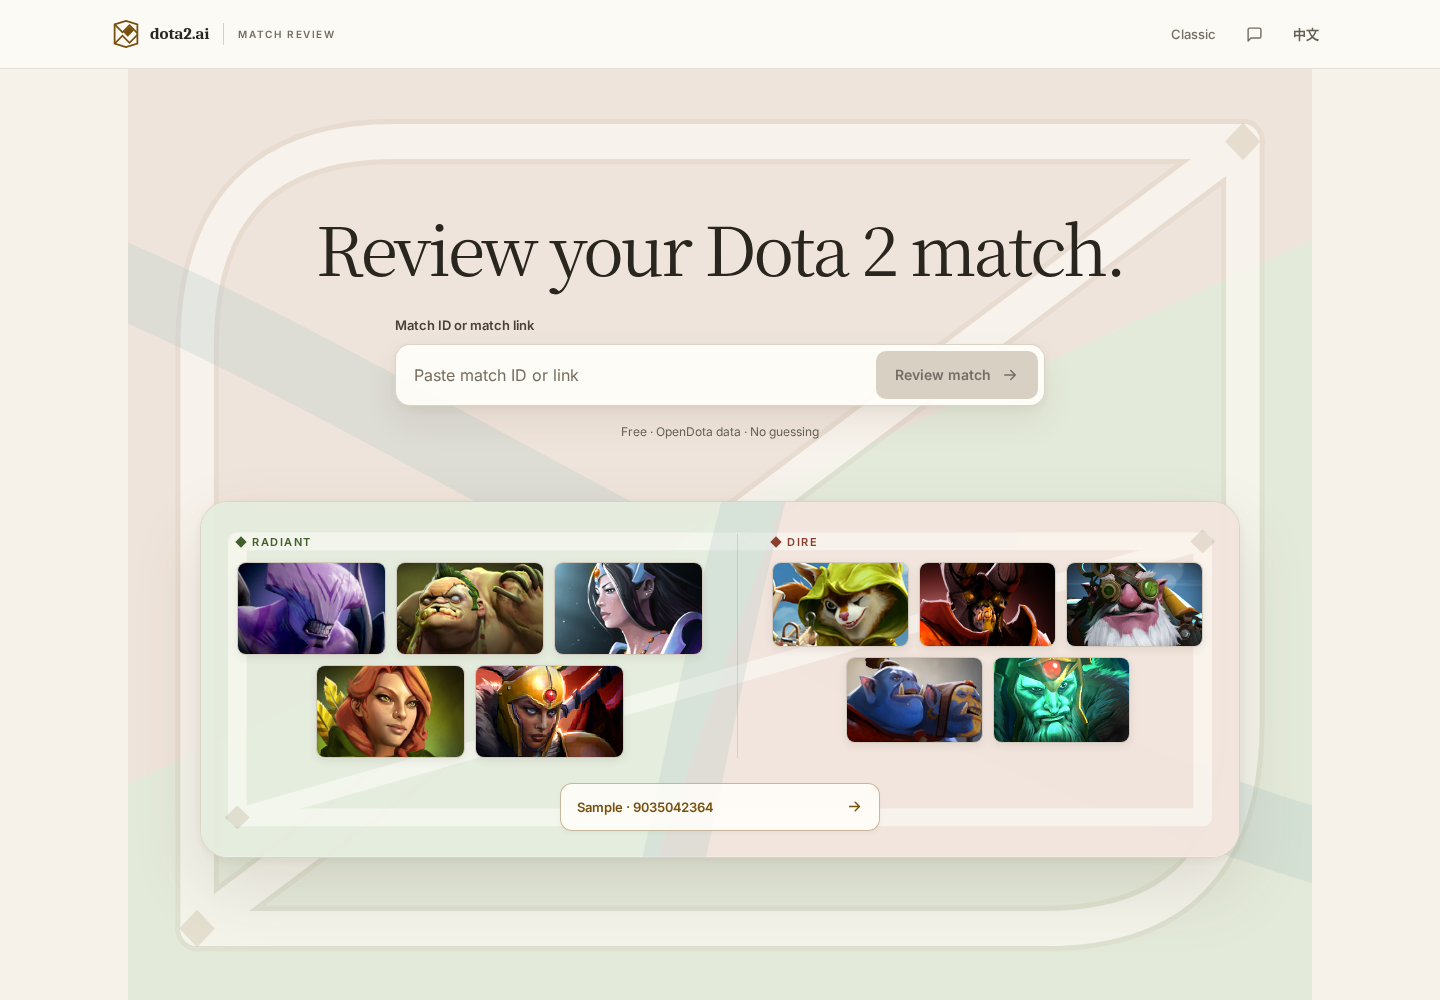
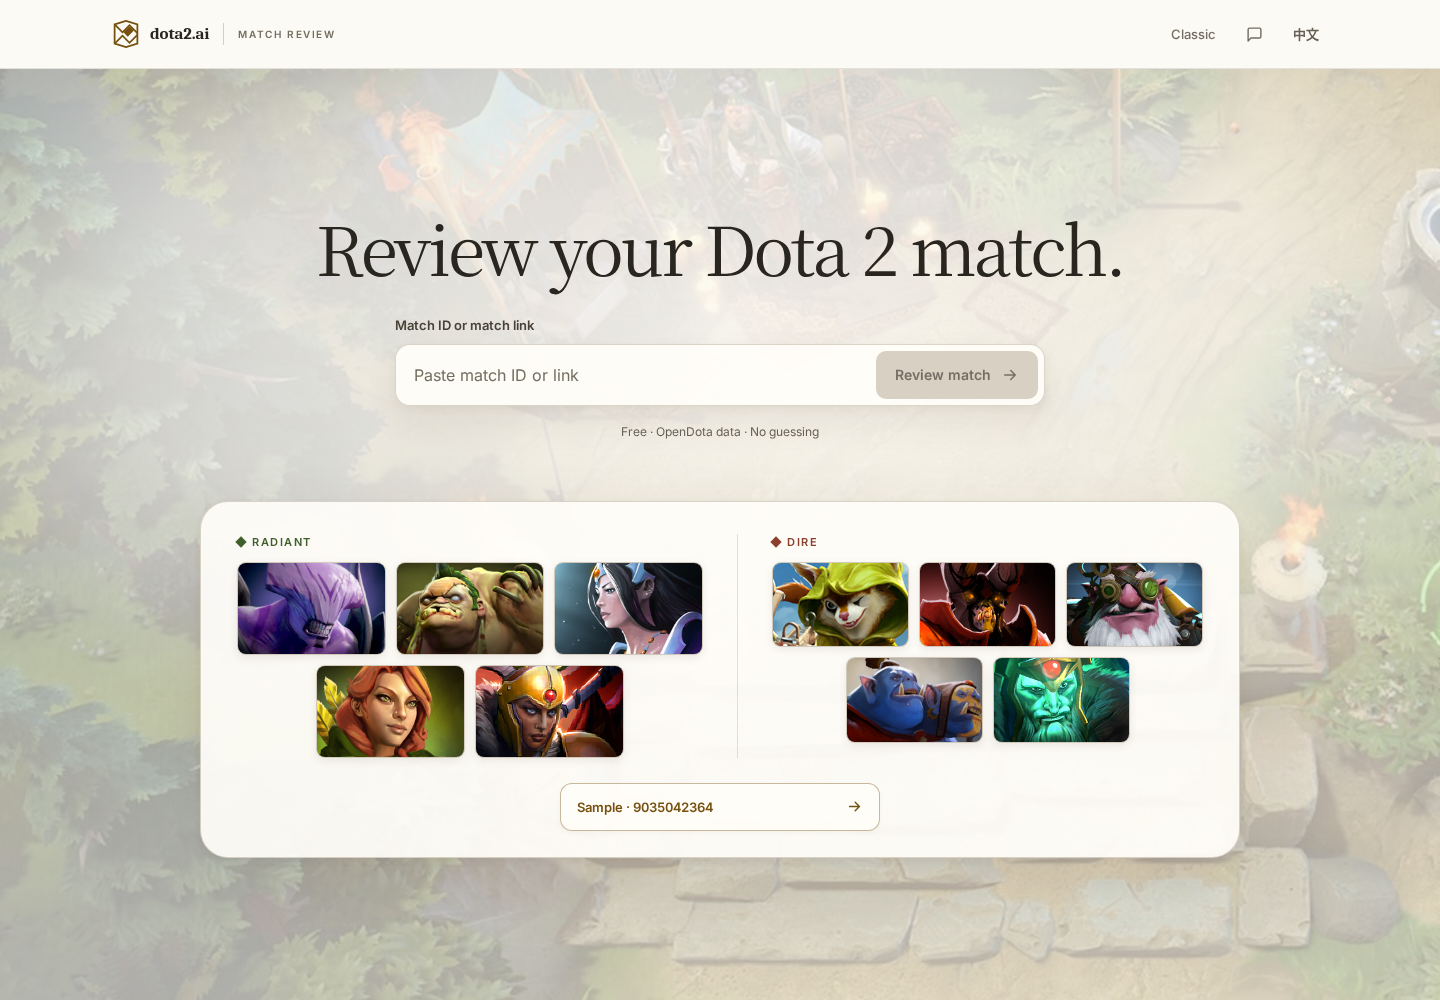
feat(home): replace map wireframe with Dota shop scene

diff --git a/src/v2/components/EmptyState.css b/src/v2/components/EmptyState.css
@@ -1,4 +1,4 @@
-/* Match-ID-first home: a quiet headline above one large, map-shaped match tableau. */
+/* Match-ID-first home over a faded, official Radiant shop scene. */
 .d2-home-root {
   background-color: var(--d2-bg);
 }
@@ -41,52 +41,25 @@
   min-height: calc(var(--app-height, 100dvh) - 178px);
 }
 
-.d2-home-ground {
+.d2-home-scene {
   position: absolute;
   z-index: -1;
-  inset: -54px 0 -56px;
-  width: 100%;
-  height: calc(100% + 110px);
+  inset: -54px calc(50% - 50vw) -56px;
+  background-image: url('/home-scene/radiant-shop.jpg');
+  background-position: 48% 42%;
+  background-size: cover;
   pointer-events: none;
 }
 
-.d2-ground-dire {
-  fill: #ead9d0;
-  opacity: 0.58;
-}
-
-.d2-ground-radiant {
-  fill: #dce6d4;
-  opacity: 0.72;
-}
-
-.d2-ground-lane-edges,
-.d2-ground-lanes {
-  stroke-linecap: round;
-  stroke-linejoin: round;
-}
-
-.d2-ground-lane-edges {
-  stroke: #a69479;
-  stroke-width: 44;
-  opacity: 0.09;
-}
-
-.d2-ground-lanes {
-  stroke: #fffdf8;
-  stroke-width: 34;
-  opacity: 0.68;
-}
-
-.d2-ground-river {
-  stroke: #aec8c6;
-  stroke-width: 72;
-  opacity: 0.27;
-}
-
-.d2-ground-bases {
-  fill: #9a8150;
-  opacity: 0.18;
+/* Keep the shop, foliage, and stone readable at the edges while the form
+   sits on a quieter warm-paper scrim. */
+.d2-home-scene::after {
+  content: '';
+  position: absolute;
+  inset: 0;
+  background:
+    radial-gradient(ellipse 66% 48% at 50% 28%, rgba(252, 250, 245, 0.92), rgba(252, 250, 245, 0.76) 62%, rgba(246, 242, 233, 0.46)),
+    linear-gradient(180deg, rgba(246, 242, 233, 0.18), rgba(246, 242, 233, 0.42));
 }
 
 .d2-home-copy,
@@ -219,47 +192,6 @@
   border-radius: 28px;
   background: rgba(255, 253, 248, 0.92);
   box-shadow: 0 30px 70px rgba(76, 56, 30, 0.13), 0 3px 8px rgba(76, 56, 30, 0.06);
-}
-
-.d2-example-map {
-  position: absolute;
-  inset: 0;
-  width: 100%;
-  height: 100%;
-  pointer-events: none;
-}
-
-.d2-map-radiant {
-  fill: #dfe9d8;
-  opacity: 0.8;
-}
-
-.d2-map-dire {
-  fill: #edddd5;
-  opacity: 0.76;
-}
-
-.d2-map-zone-mobile {
-  display: none;
-}
-
-.d2-map-lanes {
-  stroke: #fffdf8;
-  stroke-width: 18;
-  stroke-linecap: round;
-  stroke-linejoin: round;
-  opacity: 0.56;
-}
-
-.d2-map-river {
-  stroke: #aac5c3;
-  stroke-width: 60;
-  opacity: 0.24;
-}
-
-.d2-map-bases {
-  fill: #8c764c;
-  opacity: 0.18;
 }
 
 .d2-example-roster,
@@ -399,9 +331,9 @@
     min-height: 0;
   }
 
-  .d2-home-ground {
-    inset: -44px 0 -46px;
-    height: calc(100% + 90px);
+  .d2-home-scene {
+    inset: -44px calc(50% - 50vw) -46px;
+    background-position: 38% 42%;
   }
 
   .d2-home-title {
@@ -437,14 +369,6 @@
     grid-column: auto;
     aspect-ratio: 8 / 7;
   }
-
-  .d2-map-zone-desktop {
-    display: none;
-  }
-
-  .d2-map-zone-mobile {
-    display: block;
-  }
 }
 
 @media (max-width: 520px) {
@@ -466,21 +390,15 @@
     gap: 36px;
   }
 
-  .d2-home-ground {
-    inset: -34px 0 -36px;
-    height: calc(100% + 70px);
+  .d2-home-scene {
+    inset: -34px calc(50% - 50vw) -36px;
+    background-position: 31% 44%;
   }
 
-  .d2-ground-lane-edges {
-    stroke-width: 30;
-  }
-
-  .d2-ground-lanes {
-    stroke-width: 22;
-  }
-
-  .d2-ground-river {
-    stroke-width: 54;
+  .d2-home-scene::after {
+    background:
+      radial-gradient(ellipse 105% 44% at 50% 25%, rgba(252, 250, 245, 0.9), rgba(252, 250, 245, 0.76) 72%, rgba(246, 242, 233, 0.6)),
+      linear-gradient(180deg, rgba(246, 242, 233, 0.16), rgba(246, 242, 233, 0.32));
   }
 
   .d2-home-title {

diff --git a/src/v2/components/EmptyState.tsx b/src/v2/components/EmptyState.tsx
@@ -14,59 +14,6 @@ const SAMPLE_RADIANT = ['faceless_void', 'pudge', 'mirana', 'windrunner', 'legio
 const SAMPLE_DIRE = ['hoodwink', 'doom_bringer', 'sniper', 'ogre_magi', 'skeleton_king'];
 const HERO_CDN = 'https://cdn.cloudflare.steamstatic.com/apps/dota2/images/dota_react/heroes';
 
-const HomeGround: React.FC = () => (
-  <svg
-    className="d2-home-ground"
-    viewBox="0 0 1200 900"
-    preserveAspectRatio="none"
-    fill="none"
-    aria-hidden="true"
-  >
-    <path className="d2-ground-dire" d="M0 0h1200v165L0 690Z" />
-    <path className="d2-ground-radiant" d="M0 690 1200 165v735H0Z" />
-    <g className="d2-ground-lane-edges">
-      <path d="M70 830V270Q70 70 270 70h860" />
-      <path d="m70 830 1060-760" />
-      <path d="M70 830h860q200 0 200-200V70" />
-    </g>
-    <g className="d2-ground-lanes">
-      <path d="M70 830V270Q70 70 270 70h860" />
-      <path d="m70 830 1060-760" />
-      <path d="M70 830h860q200 0 200-200V70" />
-    </g>
-    <path className="d2-ground-river" d="M-80 175C265 300 770 645 1280 770" />
-    <g className="d2-ground-bases">
-      <path d="m70 812 18 18-18 18-18-18Z" />
-      <path d="m1130 52 18 18-18 18-18-18Z" />
-    </g>
-  </svg>
-);
-
-const MapMotif: React.FC = () => (
-  <svg
-    className="d2-example-map"
-    viewBox="0 0 1000 360"
-    preserveAspectRatio="none"
-    fill="none"
-    aria-hidden="true"
-  >
-    <path className="d2-map-radiant d2-map-zone-desktop" d="M0 0h560L440 360H0Z" />
-    <path className="d2-map-dire d2-map-zone-desktop" d="M560 0h440v360H440Z" />
-    <path className="d2-map-radiant d2-map-zone-mobile" d="M0 0h1000v150L0 230Z" />
-    <path className="d2-map-dire d2-map-zone-mobile" d="M0 230 1000 150v210H0Z" />
-    <g className="d2-map-lanes">
-      <path d="M35 320V40h930" />
-      <path d="m35 320 930-280" />
-      <path d="M35 320h930V40" />
-    </g>
-    <path className="d2-map-river" d="M540-30C510 80 485 220 450 390" />
-    <g className="d2-map-bases">
-      <path d="m35 308 12 12-12 12-12-12Z" />
-      <path d="m965 28 12 12-12 12-12-12Z" />
-    </g>
-  </svg>
-);
-
 const Lineup: React.FC<{ side: 'radiant' | 'dire'; heroes: string[] }> = ({ side, heroes }) => {
   const { lang, t } = useI18n();
   return (
@@ -104,7 +51,7 @@ const EmptyState: React.FC = () => {
 
   return (
     <section className="d2-home-layout" aria-labelledby="home-title">
-      <HomeGround />
+      <div className="d2-home-scene" aria-hidden="true" />
       <div className="d2-home-copy">
         <h1 id="home-title" className="d2-home-title">{t('emptyH')}</h1>
         <Composer variant="hero" />
@@ -112,7 +59,6 @@ const EmptyState: React.FC = () => {
       </div>
 
       <aside className="d2-example" aria-label={t('stSample')}>
-        <MapMotif />
         <div className="d2-example-roster">
           <Lineup side="radiant" heroes={SAMPLE_RADIANT} />
           <Lineup side="dire" heroes={SAMPLE_DIRE} />

diff --git a/docs/home-redesign/KIMI_BRIEF_SCENE_BG.md b/docs/home-redesign/KIMI_BRIEF_SCENE_BG.md
@@ -1,0 +1,45 @@
+# Task: replace abstract map geometry with real Dota 2 scene background (Kimi k3.1-pro) — t292u
+
+Branch: `feat/home-k31pro-redesign-20261109` @ `09077e4`. Draft PR #125. Keep **Draft + `no-auto-merge`**. Do not merge/deploy. Do not touch #115. Do not change backend API / dsh.
+
+## User feedback (must honor)
+钱浩 t292u: 「背景有点丑，最好能和 dota2 有关系」.
+The previous large white-line three-lane / river / racetrack rectangle SVG (`HomeGround` / map motif frames) was **rejected**. Do **not** tweak that geometry or just swap gradients. Remove those big white wireframes.
+
+## Critical process — look before coding
+1. Read `docs/home-redesign/scene-candidates/ATTRIBUTION.md` and `SOURCE_META.json`.
+2. **Actually Read** (image) these files:
+   - `docs/home-redesign/scene-candidates/candidate-radiant-fountain.jpg`
+   - `docs/home-redesign/scene-candidates/candidate-radiant-shop.jpg`
+   - `docs/home-redesign/scene-candidates/candidate-lane-forest.jpg`
+   - `docs/home-redesign/scene-candidates/spring_forward_social.png` (promo — optional; prefer environment scenes)
+   - Rejected previous look: `/workspace/dota2-home-k31pro-preview/shots/desktop-1440.png`
+3. You choose which scene (or crop of it) becomes the decorative background. Prefer recognizable Dota environment (fountain / trees / stone / shop / lane forest). Avoid looking like another game. Do not invent AI images. Do not use fake Valve logos.
+
+## Visual goals
+- Truly light / warm-paper UI with a **real Dota scene** atmosphere behind.
+- Crop, fade, warm-white overlay, edge vignette OK. Scene must remain **visible enough** in screenshots (not washed to blank), but must **not** overpower Match ID input.
+- Remove big white geometric lane frames.
+- Slim copy stays: title + Match ID + one trust line + sample. No new marketing blocks / invented metrics.
+- Sample match still real `9035042364` roster. Scene is decoration only — not tactical map evidence.
+- EN + ZH; mobile ≤390: use a scene crop + stronger white mask; keep download weight reasonable (prefer ≤~350KB web asset under `public/`).
+- Main input remains clearest. You may recompose (not forced to keep centered giant roster card) as long as sample stays usable.
+- Keyboard/focus/contrast OK; restrained hover; `prefers-reduced-motion`.
+
+## Implementation hints
+- Put the chosen optimized asset under `public/home-scene/` (e.g. `public/home-scene/bg.jpg`) and reference it from CSS/`EmptyState`.
+- Update `docs/home-redesign/CHANGES.md` with 对比说明 + source URLs/bytes.
+- Update `docs/home-redesign/scene-candidates/ATTRIBUTION.md` if you pick a specific original URL.
+- Run `npm test` (or focused+full), `npx tsc --noEmit`, `npm run build`. Fix failures.
+- Overwrite screenshots:
+  - `/workspace/dota2-home-k31pro-preview/shots/desktop-1440.png`
+  - `/workspace/dota2-home-k31pro-preview/shots/mobile-390.png`
+  - `/workspace/dota2-home-k31pro-preview/shots/mobile-390-zh.png`
+  and copy into `docs/home-redesign/shots/`.
+- For preview: rebuild is enough for later restart by the parent; you may `npm run build`. **Do not** open public tunnels. **Do not** change firewall/port whitelist/proxy/Chrome cgroup. If you need a temporary preview for screenshots, use Playwright against a short-lived `PORT=4174` or similar — leave existing **4173 persistent session alone** if still running.
+- Commit + push to `origin/feat/home-k31pro-redesign-20261109`. Keep Draft + no-auto-merge.
+
+## Done when
+- No abstract white lane wireframe.
+- Background is a faded official Dota store-scene derivative that reads as Dota.
+- Slim copy preserved; tests/types/build green; shots refreshed; branch pushed.

diff --git a/docs/home-redesign/scene-candidates/ATTRIBUTION.md b/docs/home-redesign/scene-candidates/ATTRIBUTION.md
@@ -1,0 +1,36 @@
+# Scene background source notes (t292u)
+
+Fetched: 2026-11-09T13:26:40.391524+08:00
+
+## Primary source
+- Game: Dota 2 (Steam app 570)
+- Official store page: https://store.steampowered.com/app/570/Dota_2/
+- Screenshot list API: https://store.steampowered.com/api/appdetails?appids=570&filters=screenshots
+- Publisher/rights holder: Valve Corporation
+- Images are Valve/Steam CDN store screenshots published on the official store page.
+
+## Candidates prepared for Kimi (HUD-cropped derivatives of store screenshots)
+| File | From store screenshot | Crop intent | Bytes |
+|---|---|---|---|
+| candidate-radiant-shop.jpg | ss02 | Radiant secret shop / trees / stone steps (day) | ~297KB |
+| candidate-radiant-fountain.jpg | ss03 | Radiant fountain / cobble / pink trees | ~288KB |
+| candidate-lane-forest.jpg | ss06 | Lane forest / river-adjacent trees | ~247KB |
+
+Full original URLs are in SOURCE_META.json.
+
+## Selected homepage derivative (t292u)
+- Candidate: `candidate-radiant-shop.jpg` (official store screenshot `ss02`).
+- Original: https://shared.akamai.steamstatic.com/store_item_assets/steam/apps/570/ss_c9118375a2400278590f29a3537769c986ef6e39.1920x1080.jpg?t=1791407503 (1,500,992 bytes).
+- Shipped asset: `public/home-scene/radiant-shop.jpg` — 1030×810, 188,307 bytes; cropped from the prepared candidate to remove the right-side combatants and bottom HUD, then optimized as progressive JPEG.
+- Used only as an `aria-hidden`, warm-white-masked decorative background. Not current-patch tactical map evidence; no generated imagery, fake Valve logo, or endorsement claim.
+
+## Usage / conditions (recorded, no license assumed)
+- Steam Subscriber Agreement § Fan Art: Valve allows incorporating Valve game content into Fan Art on a **non-commercial** basis; site is free match review with no billing UI. We do **not** claim a grant for redistributing raw game assets.
+- Steam Video Policy: encourages using game content in videos; discourages distributing game assets separately. Decorative homepage background on a free fan tool is **not** clearly blessed; treat as attributable fan display of publicly posted store screenshots; do not imply Valve endorsement; do not use fake official logos.
+- Archived Valve trademark guidelines (Dota Marks) mainly govern map/mod naming — not directly a screenshot-decor ban.
+- If a clearer prohibition for this decorative use appears later, remove the asset.
+
+## Explicit non-goals
+- Not a current-patch tactical map evidence plate.
+- Not generated AI art.
+- Not private/credentialed assets.

diff --git a/docs/home-redesign/CHANGES.md b/docs/home-redesign/CHANGES.md
@@ -1,5 +1,21 @@
 # Home redesign changes
 
+## Real Dota scene follow-up (2026-11-09)
+
+### 对比说明
+
+- **移除抽象地图**：根据 t292u 反馈，删除上一版整页三条白色边路 / 河道 / 基地线框（`HomeGround`）以及示例卡内的同款几何（`MapMotif`），不是在线框上继续换色或调渐变。
+- **真实 Dota 环境**：选用官方 Steam 商店截图 `ss02` 的天辉商店、树林与石阶场景，裁掉右侧战斗角色和底部 HUD。桌面以暖白径向遮罩让标题与 Match ID 输入保持清晰，四周仍能辨认商店棚子、火把、树木与石阶；手机使用更紧的商店局部构图和稍强的暖白遮罩。
+- **内容保持不变**：仍只有短标题、Match ID 表单、一条信任说明和真实示例 `9035042364` 阵容；EN/ZH 文案、输入解析和示例跳转均未改变。场景只是装饰，不作为当前版本战术地图证据。
+
+### Source and implementation
+
+- Official page: https://store.steampowered.com/app/570/Dota_2/
+- Original `ss02` (1,500,992 bytes): https://shared.akamai.steamstatic.com/store_item_assets/steam/apps/570/ss_c9118375a2400278590f29a3537769c986ef6e39.1920x1080.jpg?t=1791407503
+- Prepared HUD-cropped candidate `candidate-radiant-shop.jpg`: 297,114 bytes. Selected derivative: `public/home-scene/radiant-shop.jpg`, 1030×810 JPEG, **188,307 bytes**. No AI-generated imagery or Valve endorsement is implied.
+- `EmptyState.tsx` now has one `aria-hidden` scene layer; all large map SVG geometry and its responsive rules are removed. The existing focus rings, restrained hover states, and global reduced-motion behavior remain unchanged.
+- Refreshed desktop, mobile EN, and mobile ZH screenshots in `docs/home-redesign/shots/`.
+
 ## Composition follow-up (2026-11-09)
 
 ### 对比说明
